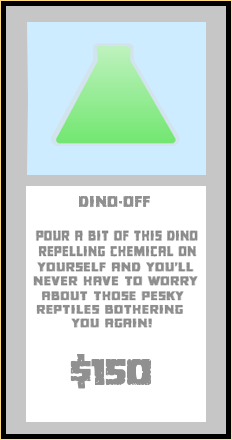
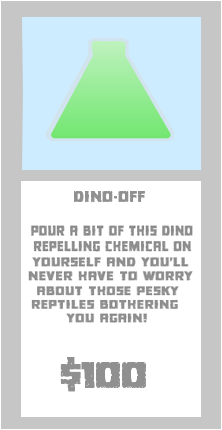
Price changes

Changed region(s): [[0.0, 0.0, 1.0, 1.0], [0.2162, 0.1512, 0.7838, 0.3326], [0.4054, 0.0907, 0.6486, 0.2116]]

diff --git a/game/ShoppingCart1.java b/game/ShoppingCart1.java
@@ -39,7 +39,7 @@ public class ShoppingCart1 extends GreenPotion
     {
         if(BackerGS.storeVisible)
         {
-            if(CurrencyCounter.currencyCollected < 150)
+            if(CurrencyCounter.currencyCollected < 100)
             {
                 if(Greenfoot.mouseClicked(this))
                 {
@@ -47,7 +47,7 @@ public class ShoppingCart1 extends GreenPotion
                     boop.play();
                 }   
             }
-            if(CurrencyCounter.currencyCollected >= 150)
+            if(CurrencyCounter.currencyCollected >= 100)
             {
                 if(PowerUps2.powerUp2 != 0)
                 {
@@ -62,7 +62,7 @@ public class ShoppingCart1 extends GreenPotion
                     if(Greenfoot.mouseClicked(this))
                     {
                         chaChing.play();
-                        CurrencyCounter.currencyCollected = CurrencyCounter.currencyCollected - 150;
+                        CurrencyCounter.currencyCollected = CurrencyCounter.currencyCollected - 100;
                         PowerUps2.powerUp2 = 3;
                     }
                 }

diff --git a/game/ShoppingCart3.java b/game/ShoppingCart3.java
@@ -36,7 +36,7 @@ public class ShoppingCart3 extends PurplePotion
     {
         if(BackerGS.storeVisible)
         {
-            if(CurrencyCounter.currencyCollected < 350)
+            if(CurrencyCounter.currencyCollected < 150)
             {
                 if(Greenfoot.mouseClicked(this))
                 {
@@ -45,7 +45,7 @@ public class ShoppingCart3 extends PurplePotion
                 }   
             }
         }
-        if(CurrencyCounter.currencyCollected >= 350)
+        if(CurrencyCounter.currencyCollected >= 150)
         {
             if(PowerUps1.powerUp1 != 0)
             {
@@ -60,7 +60,7 @@ public class ShoppingCart3 extends PurplePotion
                 if(Greenfoot.mouseClicked(this))
                 {
                     chaChing.play();
-                    CurrencyCounter.currencyCollected = CurrencyCounter.currencyCollected - 350;
+                    CurrencyCounter.currencyCollected = CurrencyCounter.currencyCollected - 150;
                     PowerUps1.powerUp1 = 3;
                 }
             }

diff --git a/game/ShoppingCart2.java b/game/ShoppingCart2.java
@@ -36,7 +36,7 @@ public class ShoppingCart2 extends OrangePotion
     {
         if(BackerGS.storeVisible)
         {
-            if(CurrencyCounter.currencyCollected < 100)
+            if(CurrencyCounter.currencyCollected < 80)
             {
                 if(Greenfoot.mouseClicked(this))
                 {
@@ -45,7 +45,7 @@ public class ShoppingCart2 extends OrangePotion
                 }   
             }
         }
-        if(CurrencyCounter.currencyCollected >= 100)
+        if(CurrencyCounter.currencyCollected >= 80)
         {
             if(PowerUps3.powerUp3 != 0)
             {
@@ -60,7 +60,7 @@ public class ShoppingCart2 extends OrangePotion
                 if(Greenfoot.mouseClicked(this))
                 {
                     chaChing.play();
-                    CurrencyCounter.currencyCollected = CurrencyCounter.currencyCollected - 100;
+                    CurrencyCounter.currencyCollected = CurrencyCounter.currencyCollected - 80;
                     PowerUps3.powerUp3 = 5;
                 }
             }
